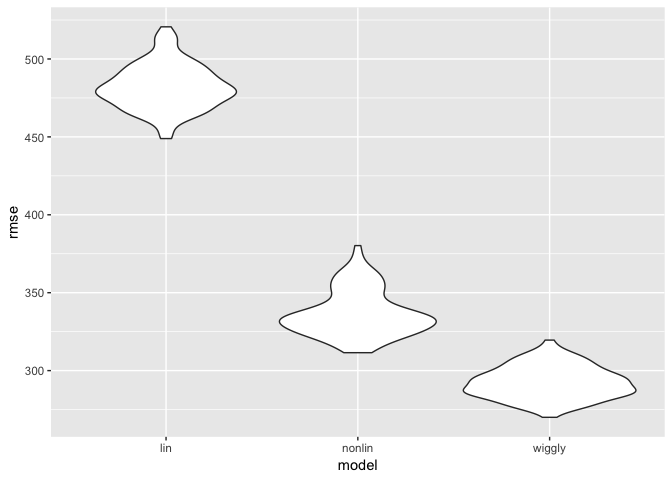
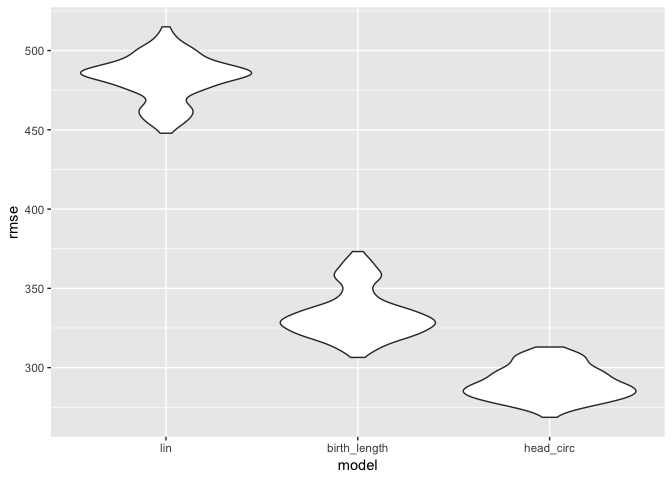
Fixing problem 1

diff --git a/hw6.md b/hw6.md
@@ -85,7 +85,7 @@ GLM for each city
         conf.low = exp(estimate - 1.96*std.error),
         conf.high = exp(estimate + 1.96*std.error)) %>% 
   filter(term == "victim_raceWhite") %>%       
-  
+  mutate(city_state = fct_reorder(city_state, OR)) %>%
 
   ggplot(aes(x = city_state, y = OR), color = OR) +
     geom_point() +
@@ -131,6 +131,10 @@ Model
 fit = lm(bwt ~ ppbmi + delwt + smoken, data = birth_data)
 ```
 
+Based on a literature review about about birthweight, I considered using mother’s pre-pregnancy BMI, mother’s weight at delivery (pounds) and average number of cigarettes smoked per day during pregnancy, average number of cigarettes smoked per day during pregnancy.
+
+-<https://www.ncbi.nlm.nih.gov/pubmed/29397484> -<https://www.ncbi.nlm.nih.gov/pmc/articles/PMC3640239/> -<https://www.ncbi.nlm.nih.gov/pubmed/16260516>
+
 ``` r
 birth_data %>% 
   add_predictions(fit) %>% 
@@ -155,8 +159,8 @@ cv_df =
          birth_length = map(train, ~lm(bwt ~ blength + gaweeks, data = .)),
          head_circ = map(train, ~lm(bwt ~ bhead + blength + babysex + bhead*blength + bhead*babysex + blength*babysex, data = .))) %>% 
   mutate(rmse_lin = map2_dbl(lin_mod, test, ~rmse(model = .x, data = .y)),
-         rmse_nonlin = map2_dbl(birth_length, test, ~rmse(model = .x, data = .y)),
-         rmse_wiggly = map2_dbl(head_circ, test, ~rmse(model = .x, data = .y))) 
+         rmse_birth_length = map2_dbl(birth_length, test, ~rmse(model = .x, data = .y)),
+         rmse_head_circ = map2_dbl(head_circ, test, ~rmse(model = .x, data = .y))) 
 
 cv_df %>% 
   select(starts_with("rmse")) %>% 
@@ -169,9 +173,4 @@ cv_df %>%
 
 ![](hw6_files/figure-markdown_github/unnamed-chunk-11-1.png)
 
-Now i have to make a model to somehow predict this relationship
-
-Two plots you have to show in addition to your proposed regression model for birthweight:
-
--   One using length at birth and gestational age as predictors (main effects only)
--   One using head circumference, length, sex, and all interactions (including the three-way interaction) between these
+Based on the plot above, the model with the interaction terms seems to be the best model because it has the lowest rmse.
